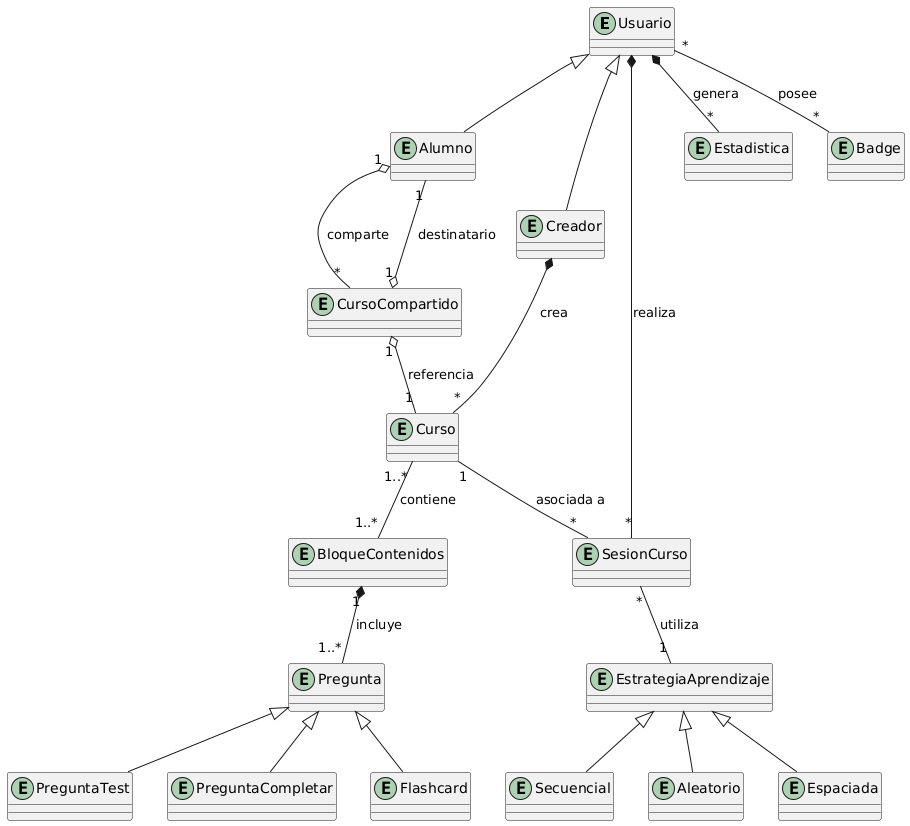
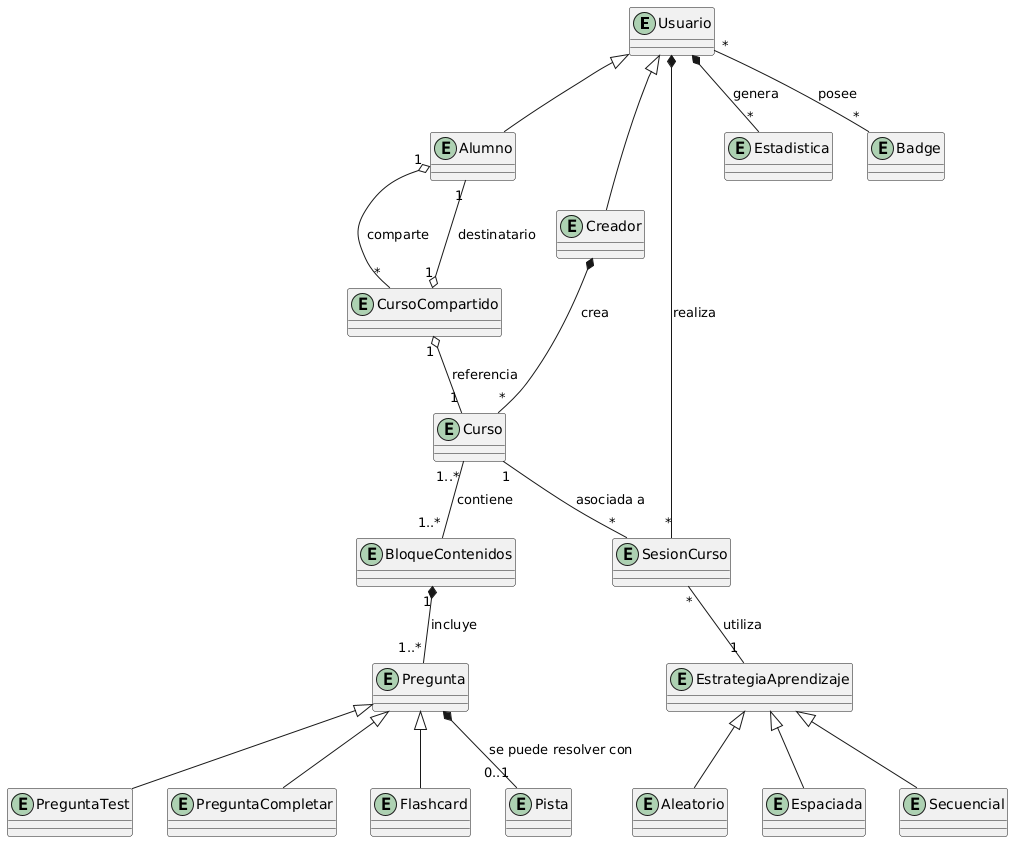
Entrega 2.
- Mejora en la navegabilidad.
- Modelado de dominio definitivo.

diff --git a/requisitos/casos-de-uso.md b/requisitos/casos-de-uso.md
@@ -3,9 +3,9 @@
 | Actor Principal | Caso de Uso |
 |---------------|------------|
 | **Usuario**   | - Registrarse en el sistema <br> - Iniciar sesión en el sistema |
-| **Alumno**   | - Seleccionar curso <sup>*1</sup> <br> - [Realizar curso](https://github.com/JuaanGB/Practicas-PDS/issues/1) <br> - Guardar progreso del curso <br> - [Mostrar estadísticas de usuario](https://github.com/JuaanGB/Practicas-PDS/issues/3) |
+| **Alumno**   | - [Seleccionar curso <sup>*1</sup>](#8) <br> - [Realizar curso](#1) <br> - Guardar progreso del curso <br> - [Mostrar estadísticas de usuario](#3) |
 | **Creador**   | - Crear curso <br> - Compartir curso |
-| **Sistema**   | - Actualizar estadísticas de usuario <br> - Cargar cursos disponibles |
+| **Sistema**   | - [Actualizar estadísticas de usuario](#9) <br> - Cargar cursos disponibles |
 
 ## Aclaraciones
 <sup>*1</sup> Dentro de **Seleccionar curso** iría la estrategia concreta de estudio: **secuencial**, **aleatoria** o **espaciada** (flujos alternativos). Al igual que el sistema avisará de si hay algún progreso guardado para el curso, ofreciéndoselo al usuario para **reanudarlo**.

diff --git a/README.md b/README.md
@@ -9,3 +9,7 @@
 
 ## Profesor responsable:
 - Jesús Sánchez Cuadrado
+
+# Documentación importante:
+- [Casos de uso](requisitos/casos-de-uso.md).
+- [Modelado de dominio](diseño/modelado/modelado_uml.png).
